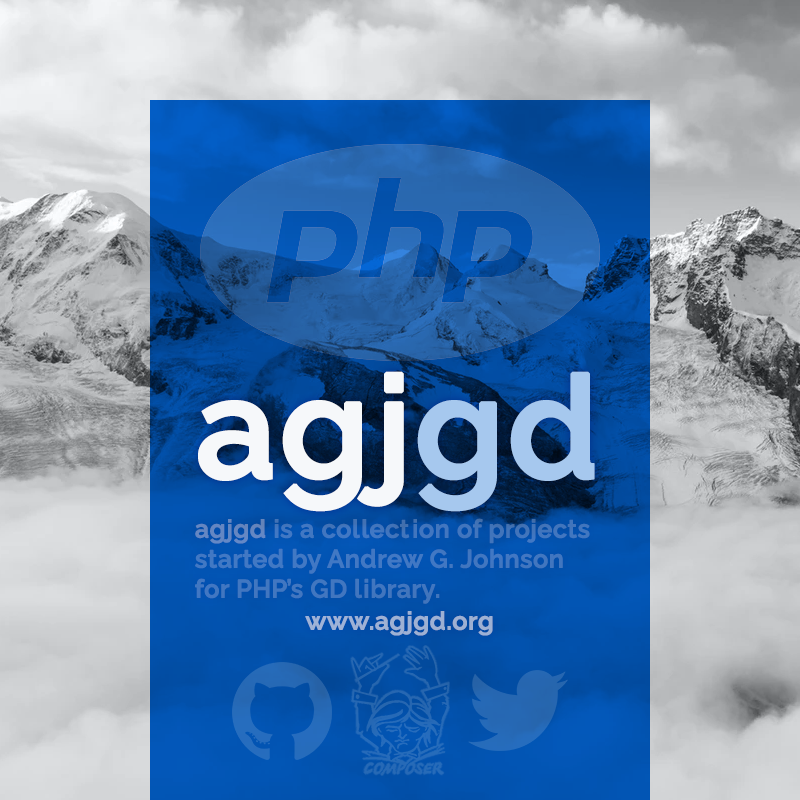
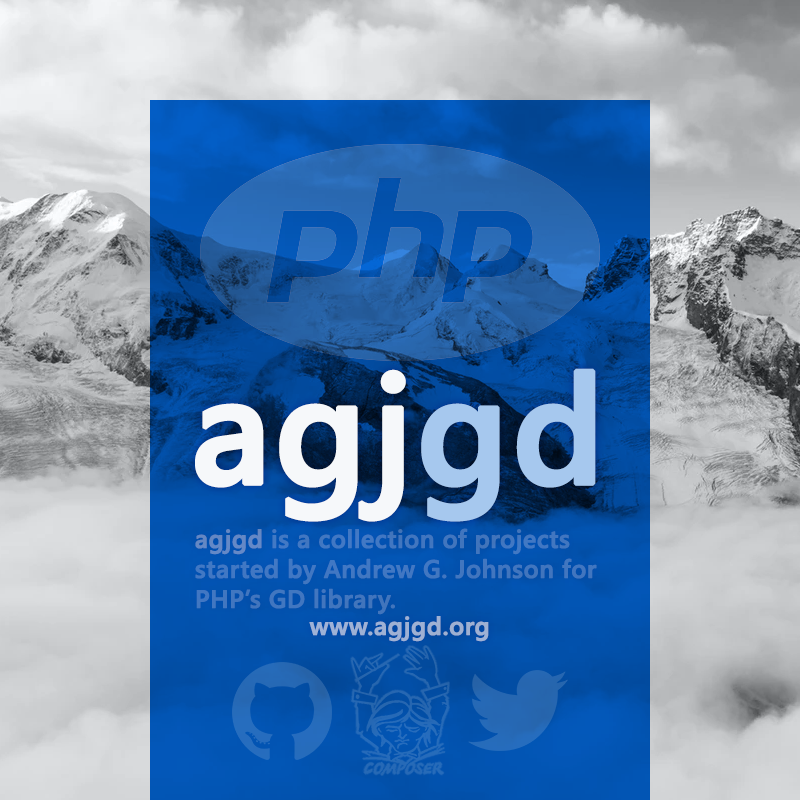
v1.0.1

Changed region(s): [[0.2188, 0.4375, 0.75, 0.8125]]

diff --git a/documentation/agjgd.org/layouts/layout.html b/documentation/agjgd.org/layouts/layout.html
@@ -2,7 +2,7 @@
 <!--/**
  * agjgd.org
  *
- * Copyright (c) 2019 Andrew G. Johnson <andrew@andrewgjohnson.com>
+ * Copyright (c) 2022 Andrew G. Johnson <andrew@andrewgjohnson.com>
  * Permission is hereby granted, free of charge, to any person obtaining a copy of
  * this software and associated documentation files (the "Software"), to deal in the
  * Software without restriction, including without limitation the rights to use,
@@ -23,7 +23,7 @@
  * @category  Andrewgjohnson
  * @package   agjgd
  * @author    Andrew G. Johnson <andrew@andrewgjohnson.com>
- * @copyright 2019 Andrew G. Johnson <andrew@andrewgjohnson.com>
+ * @copyright 2022 Andrew G. Johnson <andrew@andrewgjohnson.com>
  * @license   https://opensource.org/licenses/mit/ The MIT License
  * @link      https://github.com/andrewgjohnson/agjgd
  */-->

diff --git a/README.md b/README.md
@@ -14,12 +14,12 @@
 **agjgd** is a collection of projects started by [Andrew G. Johnson](https://github.com/andrewgjohnson) for [PHP](http://php.net)'s [GD](http://php.net/manual/book.image.php) library.
 
 All **agjgd** projects:
- * [imagettftextblur](https://imagettftextblur.org/) ([GitHub](https://github.com/andrewgjohnson/imagettftextblur), [Packagist](https://packagist.org/packages/andrewgjohnson/imagettftextblur) & [Twitter](https://twitter.com/imagettftextblu))
- * [imagettftextgradient](https://imagettftextgradient.org/) ([GitHub](https://github.com/andrewgjohnson/imagettftextgradient), [Packagist](https://packagist.org/packages/andrewgjohnson/imagettftextgradient) & [Twitter](https://twitter.com/imagettftextgra))
- * [imageblendedcolorallocate](https://imageblendedcolorallocate.org/) ([GitHub](https://github.com/andrewgjohnson/imageblendedcolorallocate), [Packagist](https://packagist.org/packages/andrewgjohnson/imageblendedcolorallocate) & [Twitter](https://twitter.com/imagebca))
- * [imagecolorallocatefromstring](https://imagecolorallocatefromstring.org/) ([GitHub](https://github.com/andrewgjohnson/imagecolorallocatefromstring), [Packagist](https://packagist.org/packages/andrewgjohnson/imagecolorallocatefromstring) & [Twitter](https://twitter.com/imagecafs))
- * [imagegradientrectangle](https://imagegradientrectangle.org/) ([GitHub](https://github.com/andrewgjohnson/imagegradientrectangle), [Packagist](https://packagist.org/packages/andrewgjohnson/imagegradientrectangle) & [Twitter](https://twitter.com/imagegradrect))
- * [linebreaks4imagettftext](https://linebreaks4imagettftext.org/) ([GitHub](https://github.com/andrewgjohnson/linebreaks4imagettftext), [Packagist](https://packagist.org/packages/andrewgjohnson/linebreaks4imagettftext) & [Twitter](https://twitter.com/lb4ittft))
+ * [imagettftextblur](https://imagettftextblur.agjgd.org/) ([GitHub](https://github.com/andrewgjohnson/imagettftextblur), [Packagist](https://packagist.org/packages/andrewgjohnson/imagettftextblur) & [Twitter](https://twitter.com/imagettftextblu))
+ * [imagettftextgradient](https://imagettftextgradient.agjgd.org/) ([GitHub](https://github.com/andrewgjohnson/imagettftextgradient), [Packagist](https://packagist.org/packages/andrewgjohnson/imagettftextgradient) & [Twitter](https://twitter.com/imagettftextgra))
+ * [imageblendedcolorallocate](https://imageblendedcolorallocate.agjgd.org/) ([GitHub](https://github.com/andrewgjohnson/imageblendedcolorallocate), [Packagist](https://packagist.org/packages/andrewgjohnson/imageblendedcolorallocate) & [Twitter](https://twitter.com/imagebca))
+ * [imagecolorallocatefromstring](https://imagecolorallocatefromstring.agjgd.org/) ([GitHub](https://github.com/andrewgjohnson/imagecolorallocatefromstring), [Packagist](https://packagist.org/packages/andrewgjohnson/imagecolorallocatefromstring) & [Twitter](https://twitter.com/imagecafs))
+ * [imagegradientrectangle](https://imagegradientrectangle.agjgd.org/) ([GitHub](https://github.com/andrewgjohnson/imagegradientrectangle), [Packagist](https://packagist.org/packages/andrewgjohnson/imagegradientrectangle) & [Twitter](https://twitter.com/imagegradrect))
+ * [linebreaks4imagettftext](https://linebreaks4imagettftext.agjgd.org/) ([GitHub](https://github.com/andrewgjohnson/linebreaks4imagettftext), [Packagist](https://packagist.org/packages/andrewgjohnson/linebreaks4imagettftext) & [Twitter](https://twitter.com/lb4ittft))
 
 ## Usage
 

diff --git a/documentation/agjgd.org/pages/projects.md b/documentation/agjgd.org/pages/projects.md
@@ -7,9 +7,9 @@ nav:       2
 
 # Projects
 
- * [**imagettftextblur**](https://imagettftextblur.org/) is a drop in replacement for imagettftext with added parameters to add blur, glow and shadow effects to your PHP GD images. Available on GitHub, Packagist & Twitter.
- * [**imagettftextgradient**](https://imagettftextgradient.org/) is a drop in replacement for imagettftext with an added parameter to add gradient coloring effects to your PHP GD images. Available on GitHub, Packagist & Twitter.
- * [**imageblendedcolorallocate**](https://imageblendedcolorallocate.org/) is a function that will allocate a new blended color based on two existing allocated colors for your PHP GD images. Available on GitHub, Packagist & Twitter.
- * [**imagecolorallocatefromstring**](https://imagecolorallocatefromstring.org/) is a function that will allocate a color based on a string for your PHP GD images. Available on GitHub, Packagist & Twitter.
- * [**imagegradientrectangle**](https://imagegradientrectangle.org/) is a function that will draw a gradient filled rectangle on your PHP GD images. Available on GitHub, Packagist & Twitter.
- * [**linebreaks4imagettftext**](https://linebreaks4imagettftext.org/) is a function to automatically insert line breaks into your text while using PHP's imagettftext function. Available on GitHub, Packagist & Twitter.
+ * [**imagettftextblur**](https://imagettftextblur.agjgd.org/) is a drop in replacement for imagettftext with added parameters to add blur, glow and shadow effects to your PHP GD images. Available on GitHub, Packagist & Twitter.
+ * [**imagettftextgradient**](https://imagettftextgradient.agjgd.org/) is a drop in replacement for imagettftext with an added parameter to add gradient coloring effects to your PHP GD images. Available on GitHub, Packagist & Twitter.
+ * [**imageblendedcolorallocate**](https://imageblendedcolorallocate.agjgd.org/) is a function that will allocate a new blended color based on two existing allocated colors for your PHP GD images. Available on GitHub, Packagist & Twitter.
+ * [**imagecolorallocatefromstring**](https://imagecolorallocatefromstring.agjgd.org/) is a function that will allocate a color based on a string for your PHP GD images. Available on GitHub, Packagist & Twitter.
+ * [**imagegradientrectangle**](https://imagegradientrectangle.agjgd.org/) is a function that will draw a gradient filled rectangle on your PHP GD images. Available on GitHub, Packagist & Twitter.
+ * [**linebreaks4imagettftext**](https://linebreaks4imagettftext.agjgd.org/) is a function to automatically insert line breaks into your text while using PHP's imagettftext function. Available on GitHub, Packagist & Twitter.

diff --git a/CHANGELOG.md b/CHANGELOG.md
@@ -4,5 +4,9 @@ All notable changes to the [agjgd project](https://github.com/andrewgjohnson/agj
 
 The format is based on [Keep a Changelog](http://keepachangelog.com/) and this project adheres to [Semantic Versioning](http://semver.org/).
 
+## v1.0.1 (November 17, 2022)
+ * Moved all project URL's to agjgd.org subdomains
+ * Updated avatar
+
 ## v1.0.0 (January 11, 2019)
  * Intial release of agjgd
